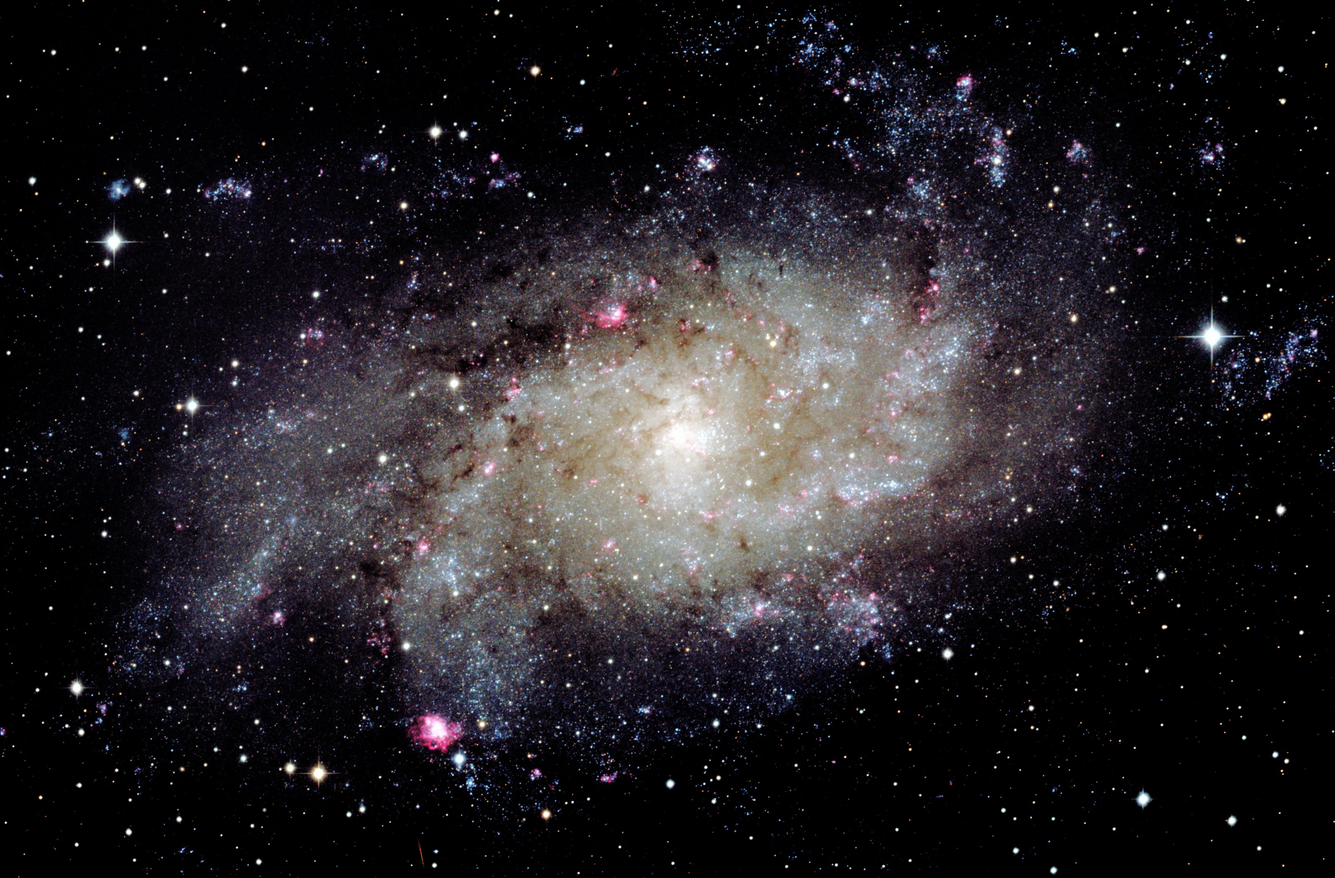
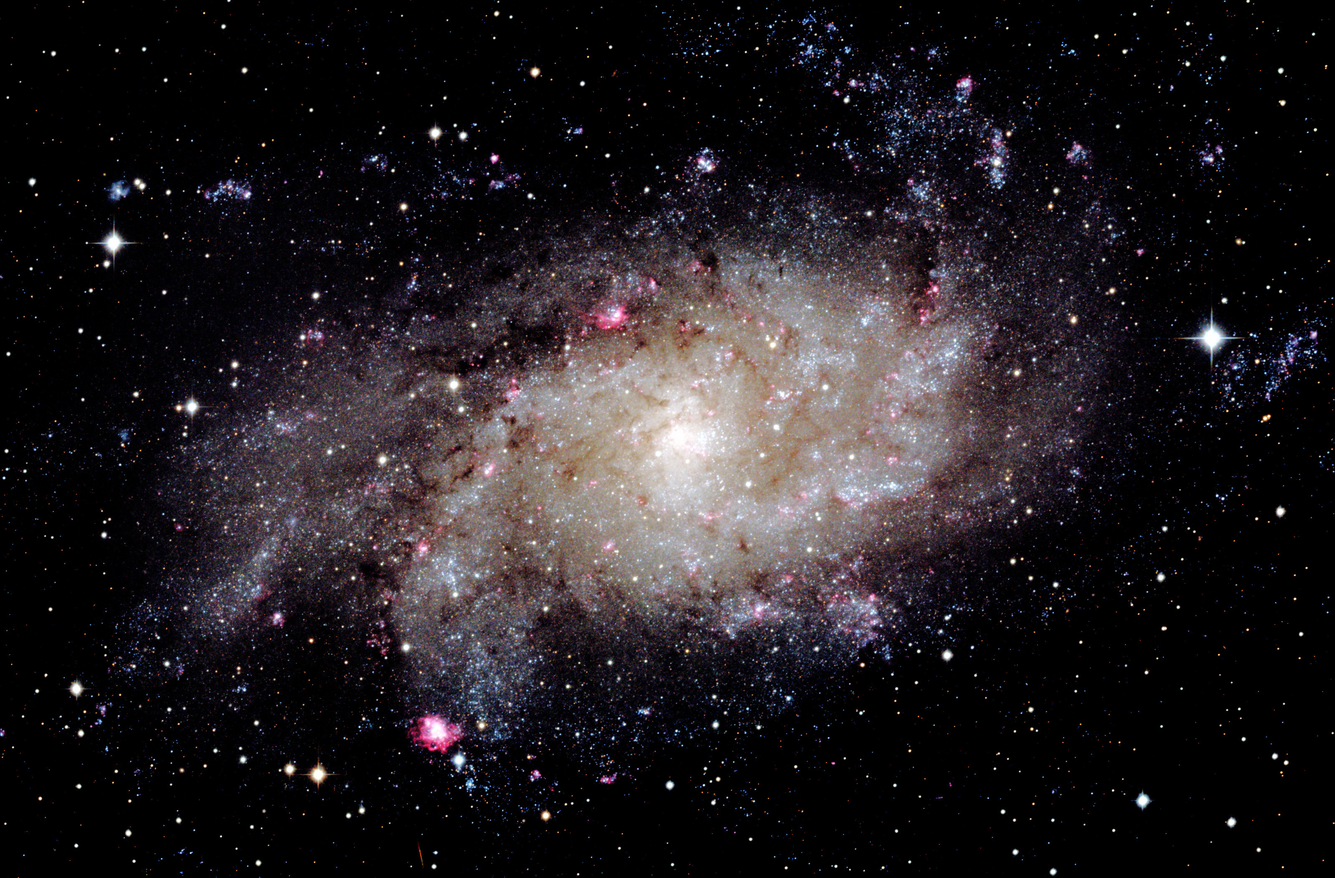
Gallery: M33 re-rendered from six nights, and how the H-alpha is blended
New picture: HALRGB from every frame to date (95 taken, 86 through the gate:
25 L, 15 R, 13 G, 9 B, 24 Ha; 7.2 h over six nights 11 Sep - 3 Oct), star
white balance from 298 stars (R x1.18, B x1.28), Ha excess at gain 1
(black 60, white 99.9, soft 0.025). The text now explains the blend: the
continuum share of R measured through the Ha filter (2.5%) is subtracted,
the excess kept above a 2-sigma noise floor (1.7% of the frame), and added at
its measured strength to R and L.

Claude-Session: https://claude.ai/code/session_01YNBzqQG6EbuUyqck5EqYJv

diff --git a/index.html b/index.html
@@ -948,7 +948,7 @@
     <header>
         <h1>Iris Lab Notes</h1>
         <p><a href="https://github.com/taylorhogan/srt" target="_blank" rel="noopener noreferrer">SRT on GitHub</a> &middot; <button type="button" class="share-btn" id="share-btn" aria-live="polite">Share</button></p>
-        <p class="last-updated" id="last-updated">Updated 2026-10-04 10:27 EDT</p>
+        <p class="last-updated" id="last-updated">Updated 2026-10-04 12:48 EDT</p>
     </header>
 
     <div class="mode-switch" role="tablist">
@@ -1063,7 +1063,7 @@
             </div>
             <div class="dso-content">
                 <h2 class="dso-title">M33 - Triangulum Galaxy</h2>
-                <div class="dso-meta">DISTANCE: ~2.7 MILLION LIGHT YEARS | TYPE: SPIRAL GALAXY | 25 L + 7 R + 9 G + 5 B + 7 H&alpha; &times; 300 s | 4.4 HOURS OVER FOUR NIGHTS</div>
+                <div class="dso-meta">DISTANCE: ~2.7 MILLION LIGHT YEARS | TYPE: SPIRAL GALAXY | 25 L + 15 R + 13 G + 9 B + 24 H&alpha; &times; 300 s | 7.2 HOURS OVER SIX NIGHTS</div>
 
                 <p class="science-text">
                     M33 is the third-largest galaxy in our Local Group, after Andromeda and
@@ -1082,18 +1082,35 @@
                 </p>
 
                 <p class="science-text">
-                    The picture is luminance, red, green and blue with the hydrogen-alpha
-                    <em>excess</em> added to red, from four nights between 12 and 24
-                    September 2026 &mdash; 57 five-minute frames, 53 through the quality
-                    gate. Its colour is set by the stars: the pipeline measured 297 of them
-                    through the three colour filters and scaled red and blue so that the
+                    The picture is luminance, red, green and blue with hydrogen-alpha
+                    blended in, from six nights between 11 September and 3 October 2026
+                    &mdash; 95 five-minute frames, 86 through the quality gate. Its colour
+                    is set by the stars: the pipeline measured 298 of them through the
+                    three colour filters and scaled red by 1.18 and blue by 1.28 so that the
                     average star is neutral, which turned a uniformly yellow-green
                     rendering into this one. That correction, why it was needed and what it
                     does not do, is the subject of
                     <a href="#star-white-balance">Why the galaxy came out green, and how the stars fixed it</a>.
-                    The blue channel is the thin one &mdash; five frames against
-                    twenty-five in luminance &mdash; and the slightly mottled look of the
-                    outer arms is that shortage; more blue is queued.
+                    Blue is still the thinnest channel &mdash; nine frames against
+                    twenty-five in luminance &mdash; and the slightly grainy look of the
+                    faint outer arms is that shortage.
+                </p>
+
+                <p class="science-text">
+                    The hydrogen-alpha is not simply added to red. An H&alpha; filter sees
+                    the glowing gas, but it also passes a little ordinary starlight, and
+                    adding that would only tint every star red. So the pipeline first
+                    measures how much of the red channel's starlight leaks through the
+                    H&alpha; filter &mdash; here 2.5%, taken from the brightest stars and
+                    galaxy body &mdash; subtracts that share, and keeps only what is left
+                    over: the <em>excess</em>, the light that is genuinely hydrogen
+                    emission. Anything in that excess below twice its own noise is dropped
+                    as grain, which leaves 1.7% of the frame &mdash; the star-forming
+                    regions and almost nothing else. That excess is then added once, at its
+                    measured strength, to both the red and the luminance channels, so the
+                    nebulae gain brightness as well as colour. The pink of NGC&nbsp;604 and
+                    the knots along the arms is that excess; the stars and the smooth light
+                    of the disc are untouched by it.
                 </p>
 
                 <div class="time-travel-box">
